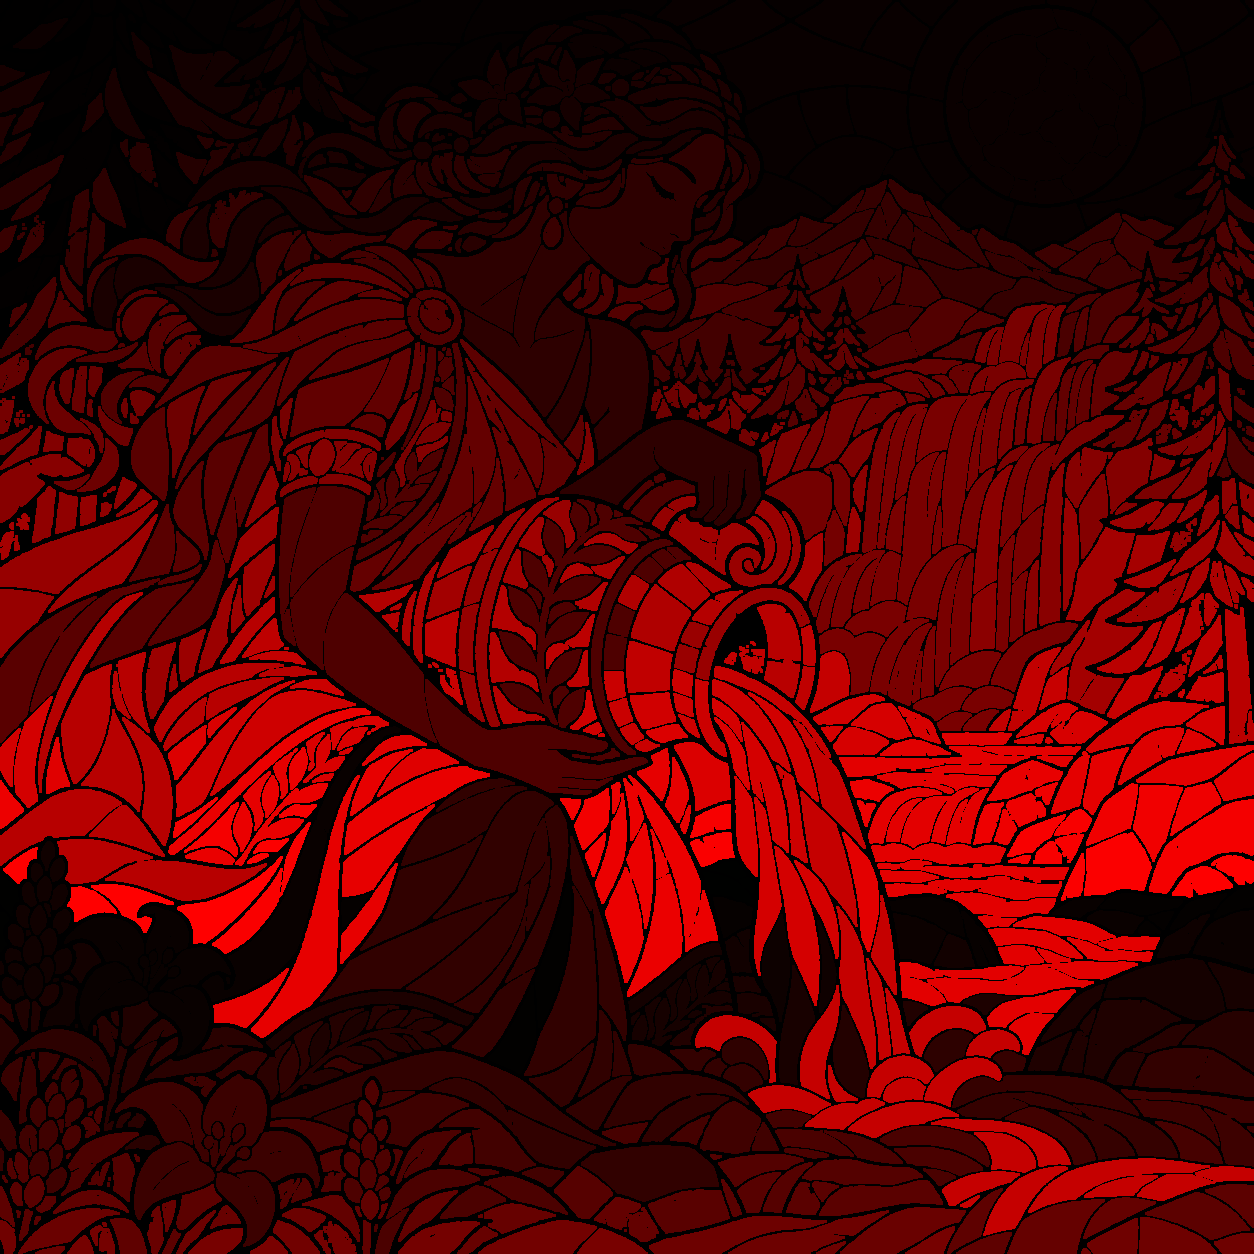
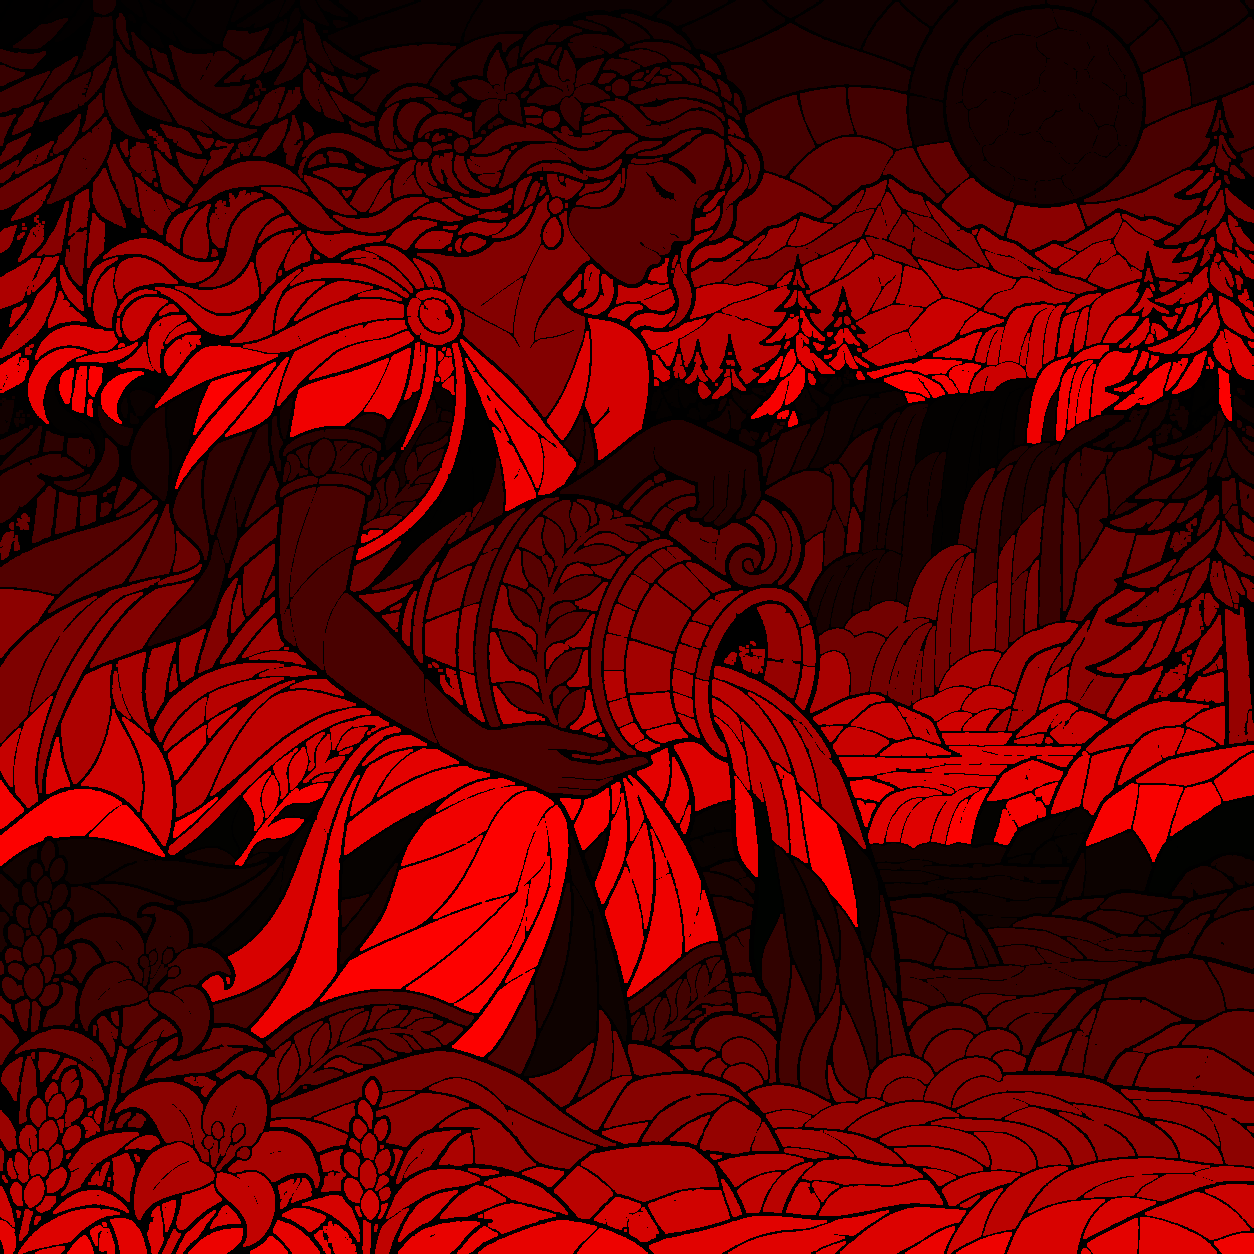
Every outlined piece is its own tap; gallery thumbnails show line art only
- make_page.py: colour merge is off by default, so touching same-colour
  pieces stay separate taps (Water Bearer rebuilt: 754 pieces)
- thumbnails never show the painting; the finished result is the surprise
- a rebuilt page with a different piece count discards the old save
- keep Water Bearer source pair under pages/src

Claude-Session: https://claude.ai/code/session_01X4jKmC36k778ncv5ZPyc4q

diff --git a/public/index.html b/public/index.html
@@ -136,7 +136,7 @@ async function open(page){
   const colData=colImg?oc(colImg).getImageData(0,0,w,h).data:null;
   const fillC=document.createElement('canvas');fillC.width=w;fillC.height=h;const fx=fillC.getContext('2d');const fill=fx.createImageData(w,h);
   const hiC=document.createElement('canvas');hiC.width=w;hiC.height=h;const hx=hiC.getContext('2d');
-  const save=store.get('cc-save-'+page.slug)||{f:{},o:[],n:0,done:false,t:Date.now()};
+  let save=store.get('cc-save-'+page.slug); if(!save||save.R!==R){save={f:{},o:[],n:0,done:false,t:Date.now(),R}} // a rebuilt page (different piece count) starts fresh
   P={page,meta,w,h,labels,idx,off,colData,lineImg,fillC,fx,fill,hiC,hx,save,sel:0,filled:new Uint8Array(R+1),byColor:null,hiDirty:true,eraseMode:false};
   // restore
   for(const k in save.f){paintRegion(+k,save.f[k],false)}

diff --git a/tools/make_page.py b/tools/make_page.py
@@ -18,7 +18,7 @@ ap.add_argument('mode', choices=['pair', 'line']); ap.add_argument('slug'); ap.a
 ap.add_argument('--title', required=True); ap.add_argument('--theme', required=True)
 ap.add_argument('--colors', type=int, default=36); ap.add_argument('--min', type=int, default=250)
 ap.add_argument('--ink', type=int, default=110); ap.add_argument('--size', type=int, default=1400)
-ap.add_argument('--merge', type=float, default=18.0, help='pair mode: merge touching areas whose colours differ by less than this (Lab distance, lightness half-weighted) so one tap fills a whole item')
+ap.add_argument('--merge', type=float, default=0.0, help='pair mode: OFF by default (0). Every outlined piece is its own tap, like Happy Color. Set e.g. 18 to merge touching areas of near-identical colour into one item')
 ap.add_argument('--maxitem', type=float, default=0.12, help='pair mode: never merge into an item bigger than this fraction of the page')
 ap.add_argument('--style', default=''); ap.add_argument('--artist', default='Original art')
 a = ap.parse_args(); t0 = time.time()
@@ -113,9 +113,8 @@ rgb = np.zeros((h, w, 3), np.uint8); rgb[:, :, 2] = labels % 256; rgb[:, :, 1] =
 cv2.imwrite(os.path.join(out, 'labels.png'), rgb, [cv2.IMWRITE_PNG_COMPRESSION, 9])
 if col is not None:
     cv2.imwrite(os.path.join(out, 'color.jpg'), col, [cv2.IMWRITE_JPEG_QUALITY, 88])
-    thumb = col.copy(); thumb[ink > 0] = np.minimum(thumb[ink > 0], line[ink > 0])
-else:
-    thumb = line.copy()
+# gallery thumbnail is ALWAYS the uncoloured line art: the finished painting is the surprise
+thumb = line.copy()
 ts = 420 / max(h, w); thumb = cv2.resize(thumb, (round(w * ts), round(h * ts)), interpolation=cv2.INTER_AREA)
 cv2.imwrite(os.path.join(out, 'thumb.jpg'), thumb, [cv2.IMWRITE_JPEG_QUALITY, 80])
 json.dump({'w': w, 'h': h, 'mode': a.mode, 'palette': palette, 'regions': regions}, open(os.path.join(out, 'regions.json'), 'w'), separators=(',', ':'))
